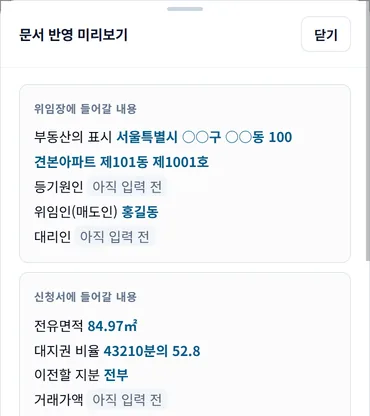
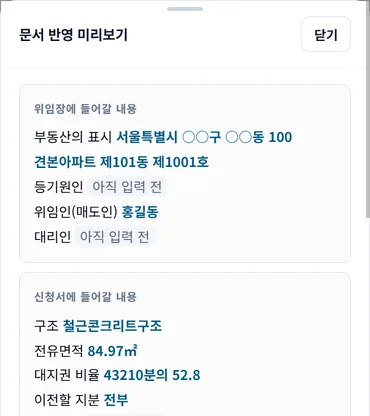
feat: 미니 등기부를 문서 반영 미리보기로 통합(사진 판독 값 주황·읽지 못한 칸 빨강, 구조·고유번호 줄), 업로드 칸 한 단, 위임장 견본을 미리보기 아래 버튼으로, 히어로 시연 재캡처(?v=1010b)

Changed region(s): [[0.0892, 0.75, 0.5351, 1.0], [0.9811, 0.5, 1.0, 0.625]]

diff --git a/normal_form.html b/normal_form.html
@@ -107,6 +107,19 @@ grid-template-columns:minmax(0,1fr) 384px;gap:24px;align-items:start}
 .pv .cp{font-size:11px;font-weight:800;letter-spacing:.05em;color:var(--muted);margin-bottom:6px}
 .pv .v{color:#075985;font-weight:700}
 .pv .v.e{color:var(--muted);font-weight:400;background:#F1F5F9;border-radius:4px;padding:0 5px}
+/* 판독 상태(2026-10-10, 미니 등기부를 합침): 사진에서 읽은 값은 주황, 읽지 못한 필수 칸은 빨강 */
+.pv .v.oc{color:#B45309}
+.pv .v.miss{color:#B91C1C;font-weight:700;background:#FEF2F2;border-radius:4px;padding:0 5px}
+.pv .v small.pv-ms{font-size:12px;font-weight:700;color:#B91C1C;margin-left:4px}
+.pv-leg{display:flex;flex-wrap:wrap;align-items:center;gap:4px 10px;font-size:12px;color:#475569;margin:10px 0 0}
+.pv-leg[hidden]{display:none}
+.pv-leg i{display:inline-block;width:8px;height:8px;border-radius:2px;margin-right:-6px}
+.pv-leg .lg-oc{background:#B45309}.pv-leg .lg-no{background:#DC2626}
+.pv-smp{display:flex;align-items:center;gap:12px;margin-top:14px;padding:12px 14px;min-height:44px;border:1px solid var(--border);border-radius:10px;background:#fff;text-decoration:none;color:var(--navy)}
+.pv-smp:hover{border-color:var(--blue);background:#F8FAFC}
+.pv-smp svg{width:26px;height:31px;flex-shrink:0}
+.pv-smp b{display:block;font-size:13.5px;font-weight:700}
+.pv-smp small{display:block;font-size:12px;color:#475569;margin-top:2px}
 .tally{display:grid;grid-template-columns:1fr auto;gap:7px 10px;font-size:13px;
 padding:14px 0;border-top:1px solid #F1F5F9;border-bottom:1px solid #F1F5F9;margin:14px 0}
 .tally .k{color:var(--muted)}
@@ -436,7 +449,7 @@ input.ocr-warn{border-color:#DC2626!important;box-shadow:0 0 0 3px rgba(220,38,3
 .blank-l small{flex-basis:100%;font-size:12.5px;color:#B45309}
 
 /* 0번 카드 — 미니 등기부 + 올리기 (2026-10-06) */
-.ocr-stage{display:grid;grid-template-columns:minmax(0,1.05fr) minmax(0,1fr);gap:14px;align-items:stretch;margin-bottom:12px}
+.ocr-stage{display:grid;grid-template-columns:1fr;gap:14px;align-items:stretch;margin-bottom:12px}
 @media(max-width:760px){.ocr-stage{grid-template-columns:1fr}.regmini{order:2}.regmini:not(.read){display:none}}
 .toast:not(.show){visibility:hidden}
 .regmini{position:relative;overflow:hidden;background:#fff;border:1px solid #CBD5E1;border-radius:10px;padding:14px 16px 10px;box-shadow:0 1px 0 #E2E8F0,0 6px 18px -12px rgba(15,23,42,.25)}
@@ -466,7 +479,7 @@ input.ocr-warn{border-color:#DC2626!important;box-shadow:0 0 0 3px rgba(220,38,3
 @keyframes rmScan{from{top:-30%}to{top:100%}}
 @media(prefers-reduced-motion:reduce){.rm-scan{animation:none!important}.rm-r.on dd span{animation:none}}
 .ocr-stage .slots{display:flex;flex-direction:column;gap:10px}
-.ocr-stage .drop{flex:1;display:flex;flex-direction:column;align-items:center;justify-content:center;padding:22px 18px}
+.ocr-stage .drop{flex:1;display:flex;flex-direction:column;align-items:center;justify-content:center;padding:30px 18px}
 .dz-ic{width:34px;height:40px;margin-bottom:10px}
 .ocr-stage .slot-t{font-size:16px;margin-bottom:6px}
 .ocr-stage .pr,.ocr-stage .plg{align-self:stretch}
@@ -581,25 +594,7 @@ input.ocr-warn{border-color:#DC2626!important;box-shadow:0 0 0 3px rgba(220,38,3
     <div class="cs">등기사항전부증명서 PDF나 사진을 올리면 아래 2·3번 칸 대부분이 채워집니다</div>
   </div></div>
   <div class="ocr-stage">
-    <!-- 미니 등기부: 실제 등기사항전부증명서의 표제부·갑구 모양. 판독이 끝나면 읽은 값이 칸에 채워진다(nfRegMini) -->
-    <div class="regmini" id="regmini" aria-label="등기부에서 자동으로 채우는 칸">
-      <div class="rm-doc">등기사항전부증명서 <small>(집합건물)</small></div>
-      <div class="rm-sec">【 표 제 부 】<small>건물·대지권의 표시</small></div>
-      <dl>
-        <div class="rm-r" data-k="jibun-address"><dt>소재지번</dt><dd><i></i><span></span></dd></div>
-        <div class="rm-r" data-k="apt-name"><dt>건물명</dt><dd><i></i><span></span></dd></div>
-        <div class="rm-r" data-k="dongho"><dt>동 · 층 · 호</dt><dd><i></i><span></span></dd></div>
-        <div class="rm-r" data-k="prop-struct"><dt>구조</dt><dd><i></i><span></span></dd></div>
-        <div class="rm-r" data-k="prop-area"><dt>전유면적</dt><dd><i></i><span></span></dd></div>
-        <div class="rm-r" data-k="ratio"><dt>대지권 비율</dt><dd><i></i><span></span></dd></div>
-        <div class="rm-r" data-k="property-uid"><dt>고유번호</dt><dd><i></i><span></span></dd></div>
-      </dl>
-      <div class="rm-sec">【 갑 구 】<small>소유권에 관한 사항</small></div>
-      <dl>
-        <div class="rm-r" data-k="s-name"><dt>소유자(매도인)</dt><dd><i></i><span></span></dd></div>
-      </dl>
-      <div class="rm-scan" aria-hidden="true"></div>
-    </div>
+    <!-- 미니 등기부는 2026-10-10 오른쪽 「문서 반영 미리보기」로 합쳤다(같은 값을 두 곳에 보여주던 중복). 판독 상태(사진·읽지 못함)는 미리보기에 표시한다. -->
     <div class="slots">
       <div class="drop" id="dz-reg">
         <svg class="dz-ic" viewBox="0 0 40 48" aria-hidden="true" focusable="false"><path d="M4 2h22l10 10v32a2 2 0 0 1-2 2H4a2 2 0 0 1-2-2V4a2 2 0 0 1 2-2z" fill="#fff" stroke="#0369A1" stroke-width="2"/><path d="M26 2v10h10" fill="none" stroke="#0369A1" stroke-width="2"/><path d="M9 22h20M9 28h20M9 34h13" stroke="#93C5FD" stroke-width="2.4" stroke-linecap="round"/></svg>
@@ -1038,12 +1033,6 @@ input.ocr-warn{border-color:#DC2626!important;box-shadow:0 0 0 3px rgba(220,38,3
       </ol>
       <p>두 서류 모두 한 번 결제에 포함됩니다.</p>
     </div>
-  <!-- 받게 되는 위임장 견본(2026-10-07) — 가상 인물·주소, 「견본」 표시. 신청서는 결제 후라 보여주지 않는다 -->
-  <a class="smp" href="sample_wimi.png" target="_blank" rel="noopener" onclick="try{window.SR&&SR.track('sample_open',{})}catch(e){}">
-    <img src="sample_wimi.png" alt="셀프등기24가 자동완성한 위임장 견본(가상 인물)" loading="lazy" width="720" height="928">
-    <span class="smp-c"><b>받게 되는 위임장 견본</b><span>가상 인물로 채운 견본입니다 · 눌러서 크게 보기</span></span>
-  </a>
-
   <label id="kind-ack-box" style="display:flex;gap:10px;align-items:flex-start;padding:12px 14px;margin:0 0 12px;border:1px solid var(--border);border-radius:10px;background:#F8FAFC;font-size:13.5px;line-height:1.65;cursor:pointer;word-break:keep-all">
     <input type="checkbox" id="kind-ack" style="width:20px;height:20px;margin-top:2px;flex-shrink:0">
     <span>이 부동산은 <b>아파트·오피스텔 등 집합건물</b>입니다. 등기부 표제부에 「1동의 건물의 표시」와 「대지권의 표시」가 있습니다. <span style="color:var(--muted)">토지·단독주택은 서류 양식이 달라 현재 결제를 받지 않습니다.</span></span>
@@ -1143,10 +1132,12 @@ input.ocr-warn{border-color:#DC2626!important;box-shadow:0 0 0 3px rgba(220,38,3
       </div>
       <div class="pv">
         <div class="cp">신청서에 들어갈 내용</div>
+        구조 <span class="v e" id="pvStruct">아직 입력 전</span><br>
         전유면적 <span class="v e" id="pvArea">아직 입력 전</span><br>
         대지권 비율 <span class="v e" id="pvRatio">아직 입력 전</span><br>
         이전할 지분 <span class="v e" id="pvShare">아직 입력 전</span><br>
-        거래가액 <span class="v e" id="pvPrice">아직 입력 전</span>
+        거래가액 <span class="v e" id="pvPrice">아직 입력 전</span><br>
+        부동산 고유번호 <span class="v e" id="pvUid">아직 입력 전</span>
       </div>
 
       <div class="tally">
@@ -1154,6 +1145,14 @@ input.ocr-warn{border-color:#DC2626!important;box-shadow:0 0 0 3px rgba(220,38,3
         <span class="k">아직 비어 있는 항목</span><span class="n2 a" id="tlLeft">0</span>
         <span class="k">비워두어도 되는 항목</span><span class="n2 c" id="tlOpt">0</span>
       </div>
+
+      <p class="pv-leg" id="pv-leg" hidden><i class="lg-oc"></i>사진에서 읽은 값 · 등기부와 대조 <i class="lg-no"></i>읽지 못한 칸 · 직접 입력</p>
+
+      <!-- 받게 되는 위임장 견본(2026-10-07 결제 카드 → 10-10 미리보기 아래로). 가상 인물·주소, 「견본」 표시 -->
+      <a class="pv-smp" href="sample_wimi.png" target="_blank" rel="noopener" onclick="try{window.SR&&SR.track('sample_open',{from:'side'})}catch(e){}">
+        <svg viewBox="0 0 40 48" aria-hidden="true" focusable="false"><path d="M4 2h22l10 10v32a2 2 0 0 1-2 2H4a2 2 0 0 1-2-2V4a2 2 0 0 1 2-2z" fill="#fff" stroke="#0369A1" stroke-width="2.4"/><path d="M26 2v10h10" fill="none" stroke="#0369A1" stroke-width="2.4"/><path d="M9 22h20M9 28h20M9 34h13" stroke="#93C5FD" stroke-width="2.6" stroke-linecap="round"/></svg>
+        <span><b>결제 후 받는 위임장 견본</b><small>가상 인물로 채운 견본 · 눌러서 크게 보기</small></span>
+      </a>
 
       <div class="side-note">
         입력하신 내용은 <b>이 브라우저 안에서만</b> 처리됩니다. 서버로 전송·저장되지 않습니다.<br>
@@ -2029,9 +2028,23 @@ window.SR=window.SR||(function(){
 /* 우측 미리보기 패널 — 기존 입력값을 읽어 표시만 한다(부작용 없음) */
 (function(){
   function v(id){var e=document.getElementById(id);return e?String(e.value||'').trim():'';}
-  function put(id,val){
+  /* keys = 이 줄의 값이 나오는 입력칸. 판독 상태(window.nfOcr)에 따라
+     사진에서 읽은 값은 주황(.oc), 읽지 못해 아직 비어 있는 필수 칸은 빨간 「읽지 못함」(.miss). */
+  var LB={'jibun-address':'소재지번','floor':'층','ho':'호'};
+  function empty(k){ return k==='total-land' ? !(v('total-land')&&v('unit-land')) : !v(k); }
+  function missOf(keys){ var M=window.nfOcr; if(!M||!keys) return [];
+    return keys.filter(function(k){ return M.miss.indexOf(k)>=0 && empty(k); }); }
+  function fromOcr(keys){ var M=window.nfOcr; if(!M||!M.ocr||!keys) return false;
+    return keys.some(function(k){ var e=document.getElementById(k); return e && e.classList.contains('ocr') && v(k); }); }
+  function esc(t){ return String(t).replace(/[&<>"]/g,function(c){return {'&':'&amp;','<':'&lt;','>':'&gt;','"':'&quot;'}[c];}); }
+  function put(id,val,keys){
     var e=document.getElementById(id); if(!e) return;
-    if(val){e.textContent=val;e.className='v';} else {e.textContent='아직 입력 전';e.className='v e';}
+    var ms=missOf(keys);
+    if(val){
+      e.innerHTML=esc(val)+(ms.length?'<small class="pv-ms">'+ms.map(function(k){return LB[k]||'';}).join('·')+' 읽지 못함</small>':'');
+      e.className='v'+(fromOcr(keys)?' oc':'');
+    } else if(ms.length){ e.textContent='읽지 못함'; e.className='v miss'; }
+    else {e.textContent='아직 입력 전';e.className='v e';}
   }
   var REQ=['owner-name','owner-address','s-name','s-addr','jibun-address','dong','ho',
            'total-land','unit-land','transfer-denom','transfer-num'];
@@ -2042,13 +2055,17 @@ window.SR=window.SR||(function(){
     var addr=v('jibun-address'), apt=v('apt-name'), dong=v('dong'), ho=v('ho');
     var prop='';
     if(addr){prop=addr+(apt?' '+apt:'')+(dong?' 제'+dong+'동':'')+(ho?' 제'+ho+'호':'');}
-    put('pvProp',prop);
+    put('pvProp',prop,['jibun-address','floor','ho']);
     var y=v('year'),m=v('month'),d=v('day');
     put('pvCause',(y&&m&&d)?(y+'년 '+m+'월 '+d+'일 매매'):'');
-    put('pvSeller', v('s-name') || v('c-name'));
+    put('pvSeller', v('s-name') || v('c-name'), ['s-name']);
     put('pvAgent',  v('owner-name'));
-    put('pvArea',   v('prop-area')?v('prop-area')+'㎡':'');
-    put('pvRatio',  frac('total-land','unit-land'));
+    put('pvStruct', v('prop-struct'), ['prop-struct']);
+    put('pvArea',   v('prop-area')?v('prop-area')+'㎡':'', ['prop-area']);
+    put('pvRatio',  frac('total-land','unit-land'), ['total-land']);
+    put('pvUid',    v('property-uid'), ['property-uid']);
+    var M=window.nfOcr, lg=document.getElementById('pv-leg');
+    if(lg) lg.hidden=!(M && (M.ocr || M.miss.length));
     put('pvShare',  (typeof transferShareText==='function') ? transferShareText() : frac('transfer-denom','transfer-num'));
     var pr=v('deal-price');
     put('pvPrice',  pr?(pr.replace(/[^0-9]/g,'').replace(/\B(?=(\d{3})+(?!\d))/g,',')+'원'):'');
@@ -2060,6 +2077,7 @@ window.SR=window.SR||(function(){
     var a=document.getElementById('tlDone'),b=document.getElementById('tlLeft'),c=document.getElementById('tlOpt');
     if(a)a.textContent=done; if(b)b.textContent=left; if(c)c.textContent=opt;
   }
+  window.nfPvRender=render;
   document.addEventListener('input',render,true);
   document.addEventListener('change',render,true);
   document.addEventListener('click',function(e){ if(e.target.closest&&e.target.closest('.deal-tab-btn')) setTimeout(render,0); },true);
@@ -2396,6 +2414,9 @@ if (window.SRPay && SRPay.setGuard) SRPay.setGuard(function () {
       + '<button type="button" class="sum-pv" onclick="window.nfPv&&nfPv(true)">서류에 들어간 모습 미리보기</button></div>';
     if(low) trk('ocr_low',{key:String(score), mode: res._ocr ? 'ocr' : 'text'});
     if(miss.length) trk('ocr_miss',{key:String(miss.length), mode: res._ocr ? 'ocr' : 'text'});
+    /* 오른쪽 미리보기에 판독 상태를 넘긴다(미니 등기부를 합친 2026-10-10부터 상태 표시는 미리보기 한 곳) */
+    window.nfOcr = { ocr: !!res._ocr, miss: miss.map(function(m){ return m[0]; }) };
+    try{ window.nfPvRender && window.nfPvRender(); }catch(_){}
     box.innerHTML = issues.map(function(x){
       var r = x.r, cls = (x.lv === 'no' || x.lv === 'miss') ? 'no' : 'oc';
       if(x.lv === 'addr'){ r = {id:r.id, label:r.label, v:r.v, note:r.note}; }

diff --git a/index.html b/index.html
@@ -146,22 +146,19 @@ header{background:var(--bg)}
 /* 시연 레이어 — 좌표는 캡처 1800×1040 기준 %. 글자 크기는 프레임 폭(cqw) 비례라 캡처 글씨와 같이 줄어든다 */
 #hapanel-transfer{position:relative;container-type:inline-size}
 .hd{position:absolute;inset:0;pointer-events:none;font-family:inherit}
-.hd-dz{position:absolute;left:34.3%;top:25%;width:28.6%;height:50.5%;border:2px solid #0369A1;border-radius:1cqw;background:rgba(3,105,161,.07);opacity:0;transition:opacity .25s}
+.hd-dz{position:absolute;left:3.1%;top:25%;width:59.8%;height:38.5%;border:2px solid #0369A1;border-radius:1cqw;background:rgba(3,105,161,.07);opacity:0;transition:opacity .25s}
 .hd-file{position:absolute;left:80%;top:88%;display:flex;align-items:flex-start;opacity:0;transform:translate(-50%,-50%);transition:left 1.1s cubic-bezier(.4,0,.2,1),top 1.1s cubic-bezier(.4,0,.2,1),opacity .3s,transform .3s}
 .hd-doc{display:inline-flex;align-items:center;gap:.6cqw;background:#fff;border:1px solid #CBD5E1;border-radius:.6cqw;padding:.6cqw 1cqw;font-size:1.05cqw;font-weight:700;color:#0F172A;white-space:nowrap;box-shadow:0 6px 16px rgba(15,23,42,.18)}
 .hd-doc i{font-style:normal;font-size:.8cqw;font-weight:800;color:#fff;background:#DC2626;border-radius:.3cqw;padding:.15cqw .4cqw}
 .hd-cur{width:2cqw;height:2cqw;margin:1.6cqw 0 0 -.6cqw;filter:drop-shadow(0 1px 1px rgba(0,0,0,.25))}
-.hd-st{position:absolute;left:48.6%;top:68%;transform:translate(-50%,-50%);background:#0F172A;color:#fff;font-size:1.05cqw;font-weight:700;padding:.5cqw 1.2cqw;border-radius:2cqw;white-space:nowrap;opacity:0;transition:opacity .25s}
+.hd-st{position:absolute;left:33%;top:58.5%;transform:translate(-50%,-50%);background:#0F172A;color:#fff;font-size:1.05cqw;font-weight:700;padding:.5cqw 1.2cqw;border-radius:2cqw;white-space:nowrap;opacity:0;transition:opacity .25s}
 .hd-v{position:absolute;height:3.1%;min-width:6.8%;display:flex;align-items:center;padding:0 .3cqw;background:#FCFCFB;color:#075985;font-size:1.12cqw;font-weight:700;white-space:nowrap;opacity:0;transform:translateY(.3cqw);transition:opacity .3s,transform .3s}
-/* 미니 등기부 칸(회색 자리 막대)을 덮는 값 */
-.hd-r{position:absolute;left:13.7%;width:17.8%;height:3.6%;display:flex;align-items:center;padding-left:.7cqw;background:#fff;color:#0F172A;font-size:1cqw;font-weight:600;white-space:nowrap;opacity:0;transition:opacity .25s}
-.hd-r.in{opacity:1}
 .hd-n{position:absolute;right:2.6%;width:3.6%;height:3.2%;display:flex;align-items:center;justify-content:flex-end;background:#fff;font-family:'SFMono-Regular',Consolas,monospace;font-size:1.05cqw;font-weight:700;opacity:0}
 .hd-n.b{color:#047857}.hd-n.a{color:#B45309}.hd-n.c{color:#64748B}
 .hd-tag{position:absolute;right:1.2%;top:1.2%;font-size:.9cqw;font-weight:700;color:#475569;background:rgba(241,245,249,.92);border:1px solid #CBD5E1;border-radius:1cqw;padding:.25cqw .8cqw;opacity:0;transition:opacity .3s}
 .hd.on .hd-tag,.hd.on .hd-n{opacity:1}
 .hd.over .hd-dz{opacity:1}
-.hd.go .hd-file{left:48.6%;top:47%;opacity:1}
+.hd.go .hd-file{left:33%;top:41%;opacity:1}
 .hd.drop .hd-file{opacity:0;transform:translate(-50%,-50%) scale(.6)}
 .hd.read .hd-st{opacity:1}
 .hd-v.in{opacity:1;transform:none}
@@ -777,9 +774,9 @@ html.mnav-open,html.mnav-open body{overflow:hidden}
         <div class="ha-panel" role="tabpanel" id="hapanel-transfer" aria-labelledby="hatab-transfer">
           <!-- 700px 아래에서는 세로 화면으로 바꾼다 — 가로 캡처를 335px 로 줄이면 글자가 읽히지 않는다(R2-A04와 같은 결함). -->
           <picture>
-            <source media="(max-width:700px)" srcset="hero_app_transfer_m@1x.webp?v=1010 370w, hero_app_transfer_m.webp?v=1010 740w" sizes="calc(100vw - 40px)">
-            <source srcset="hero_app_transfer@1x.webp?v=1010 900w, hero_app_transfer.webp?v=1010 1800w" sizes="(max-width:1240px) calc(100vw - 40px), 1160px">
-            <img src="hero_app_transfer@1x.webp?v=1010" width="900" height="520" alt="셀프등기24 서류 작성 화면. 왼쪽에 등기사항전부증명서를 올리는 칸이 있고, 오른쪽 문서 반영 미리보기 패널에 위임장·신청서에 들어갈 항목과 아직 비어 있는 항목 수가 표시된다." decoding="async">
+            <source media="(max-width:700px)" srcset="hero_app_transfer_m@1x.webp?v=1010b 370w, hero_app_transfer_m.webp?v=1010b 740w" sizes="calc(100vw - 40px)">
+            <source srcset="hero_app_transfer@1x.webp?v=1010b 900w, hero_app_transfer.webp?v=1010b 1800w" sizes="(max-width:1240px) calc(100vw - 40px), 1160px">
+            <img src="hero_app_transfer@1x.webp?v=1010b" width="900" height="520" alt="셀프등기24 서류 작성 화면. 왼쪽에 등기사항전부증명서를 올리는 칸이 있고, 오른쪽 문서 반영 미리보기 패널에 위임장·신청서에 들어갈 항목과 아직 비어 있는 항목 수가 표시된다." decoding="async">
           </picture>
           <!-- 시연 레이어(데스크톱 전용): 등기부 PDF를 끌어다 놓으면 오른쪽 미리보기가 채워지는 모습.
                좌표는 hero_app_transfer 캡처(1800×1040) 기준 %. 캡처를 바꾸면 좌표도 다시 잰다.
@@ -788,33 +785,27 @@ html.mnav-open,html.mnav-open body{overflow:hidden}
             <div class="hd-dz"></div>
             <div class="hd-file"><span class="hd-doc"><i>PDF</i>등기사항전부증명서.pdf</span><svg class="hd-cur" viewBox="0 0 24 24"><path d="M4 2l16 11-7 1.5L9.5 21z" fill="#0F172A" stroke="#fff" stroke-width="1.5" stroke-linejoin="round"/></svg></div>
             <div class="hd-st"></div>
-            <span class="hd-r" style="top:36.8%">서울특별시 ○○구 ○○동 100</span>
-            <span class="hd-r" style="top:41.5%">견본아파트</span>
-            <span class="hd-r" style="top:46.1%">101동 10층 1001호</span>
-            <span class="hd-r" style="top:50.7%">철근콘크리트구조</span>
-            <span class="hd-r" style="top:55.4%">84.97㎡</span>
-            <span class="hd-r" style="top:60%">43,210분의 52.8</span>
-            <span class="hd-r" style="top:64.7%">1101-0000-000000</span>
-            <span class="hd-r" style="top:74.1%">홍길동</span>
             <span class="hd-v" style="left:76.5%;top:17.9%">견본아파트 제101동 제1001호</span>
             <span class="hd-v" style="left:77%;top:25.1%">홍길동</span>
-            <span class="hd-v" style="left:74.1%;top:41.4%">84.97㎡</span>
-            <span class="hd-v" style="left:75.5%;top:45%">43,210분의 52.8</span>
-            <span class="hd-n b" style="top:61.7%">0</span>
-            <span class="hd-n a" style="top:65.7%">9</span>
-            <span class="hd-n c" style="top:69.7%">8</span>
+            <span class="hd-v" style="left:72.1%;top:41.4%">철근콘크리트구조</span>
+            <span class="hd-v" style="left:74.1%;top:45%">84.97㎡</span>
+            <span class="hd-v" style="left:75.5%;top:48.6%">43,210분의 52.8</span>
+            <span class="hd-v" style="left:77.5%;top:59.4%">1101-0000-000000</span>
+            <span class="hd-n b" style="top:68.9%">0</span>
+            <span class="hd-n a" style="top:72.9%">9</span>
+            <span class="hd-n c" style="top:76.9%">8</span>
             <span class="hd-tag">시연 · 견본 값</span>
           </div>
           <!-- 모바일 시연 레이어: PDF가 올라감 → 판독 → 하단 「문서 반영 미리보기」 막대 → 시트. 값은 견본이다. -->
           <div class="hdm" aria-hidden="true">
-            <img class="hdm-b" src="hero_app_transfer_m2@1x.webp?v=1010" srcset="hero_app_transfer_m2@1x.webp?v=1010 370w, hero_app_transfer_m2.webp?v=1010 740w" sizes="calc(100vw - 40px)" width="370" height="520" alt="" loading="lazy" decoding="async">
+            <img class="hdm-b" src="hero_app_transfer_m2@1x.webp?v=1010b" srcset="hero_app_transfer_m2@1x.webp?v=1010b 370w, hero_app_transfer_m2.webp?v=1010b 740w" sizes="calc(100vw - 40px)" width="370" height="520" alt="" loading="lazy" decoding="async">
             <div class="hdm-dz"></div>
             <div class="hdm-file"><span class="hdm-doc"><i>PDF</i>등기사항전부증명서.pdf</span></div>
             <div class="hdm-st">등기부를 읽는 중…</div>
             <div class="hdm-pr"><i></i></div>
             <span class="hdm-tap"></span>
             <div class="hdm-dim"></div>
-            <img class="hdm-sh" src="hero_app_transfer_m3@1x.webp?v=1010" srcset="hero_app_transfer_m3@1x.webp?v=1010 370w, hero_app_transfer_m3.webp?v=1010 740w" sizes="calc(100vw - 40px)" width="370" height="416" alt="" loading="lazy" decoding="async">
+            <img class="hdm-sh" src="hero_app_transfer_m3@1x.webp?v=1010b" srcset="hero_app_transfer_m3@1x.webp?v=1010b 370w, hero_app_transfer_m3.webp?v=1010b 740w" sizes="calc(100vw - 40px)" width="370" height="416" alt="" loading="lazy" decoding="async">
           </div>
           <button type="button" class="hdm-hit hdm-see" aria-label="문서 반영 미리보기 열기(견본)"></button>
           <button type="button" class="hdm-hit hdm-x" aria-label="미리보기 닫기" hidden></button>
@@ -1463,7 +1454,7 @@ function demoLoop(el, run, finish){
   }); },{threshold:.4}).observe(el);
   return api;
 }
-/* 데스크톱: 등기부 PDF 끌어다 놓기 → 판독 중 → 미니 등기부 8칸 → 미리보기 4칸·집계 */
+/* 데스크톱: 등기부 PDF 끌어다 놓기 → 판독 중 → 미리보기 6칸·집계(10/10 미니 등기부는 미리보기로 합침) */
 (function(){
   var hd=document.querySelector('.hd'); if(!hd||!window.matchMedia) return;
   var rs=[].slice.call(hd.querySelectorAll('.hd-r')), vs=[].slice.call(hd.querySelectorAll('.hd-v')),
